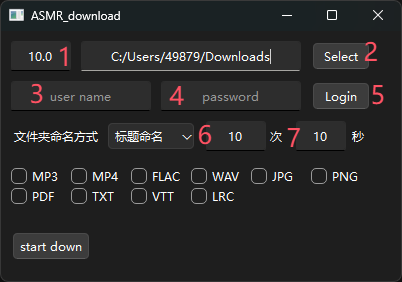
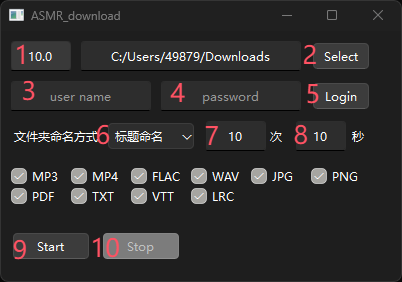
修复文件命名BUG

diff --git a/src/UI/index.py b/src/UI/index.py
@@ -2,7 +2,6 @@ import re
 
 from PyQt6.QtCore import QThread, pyqtSignal
 from PyQt6.QtWidgets import (
-    QApplication,
     QMainWindow,
     QPushButton,
     QLineEdit,
@@ -14,7 +13,6 @@ from PyQt6.QtWidgets import (
 )
 from PyQt6 import QtCore, QtWidgets
 from src.asmr_api.get_asmr_works import get_asmr_downlist_api
-from src.datebase_execution import SQLiteDB
 from src.read_conf import ReadConf
 from threading import Event
 
@@ -179,10 +177,10 @@ class INDEX(QMainWindow):
         self.down_stop_button.clicked.connect(self.down_stop)
         self.down_stop_button.setEnabled(False)
         # 打开下载页面按钮
-        self.down_stop_button = QPushButton("down page", self.centralwidget)
-        self.down_stop_button.setGeometry(QtCore.QRect(280, 200, 80, 30))
-        self.down_stop_button.clicked.connect(self.down_stop)
-        self.down_stop_button.setEnabled(False)
+        # self.down_stop_button = QPushButton("down page", self.centralwidget)
+        # self.down_stop_button.setGeometry(QtCore.QRect(280, 200, 80, 30))
+        # self.down_stop_button.clicked.connect(self.down_stop)
+        # self.down_stop_button.setEnabled(False)
 
 
         self.set_data()
@@ -247,7 +245,6 @@ class INDEX(QMainWindow):
         else:
             self.show_message_box('请输入小数', 'program')
 
-
     def save_max_retries(self):
         max_retries = self.max_retries.text()
         pattern = r'^\d+$'  # 修改正则表达式
@@ -256,9 +253,6 @@ class INDEX(QMainWindow):
                 self.conf.write_max_retries(max_retries)
         else:
             self.show_message_box('请输入整数', 'program')
-
-
-
 
     def save_timeout(self):
         timeout = self.timeout.text()
@@ -288,7 +282,6 @@ class INDEX(QMainWindow):
         folder_for_name = self.conf.read_name()
         if folder_for_name == "标题命名":
             self.folder_name_type_combo_box.setCurrentIndex(1)
-
 
     def save_download_path(self):
         download_path = QFileDialog.getExistingDirectory(self, "选择下载路径")

diff --git a/src/asmr_api/get_asmr_works.py b/src/asmr_api/get_asmr_works.py
@@ -29,14 +29,13 @@ def down_file(url, file_name, stop_event):
         if os.path.exists(file_name):
             downloaded_size = os.path.getsize(file_name)
             if downloaded_size == total_size:
-                print(f"文件已完整下载，跳过下载: {file_name}")
+                print(f"文件已下载，跳过下载: {file_name}")
                 return True
         else:
             downloaded_size = 0
 
         # 设置请求头，支持断点续传
         headers = {"Range": f"bytes={downloaded_size}-"}
-
         retries = 0
         while retries < max_retries:
             try:
@@ -181,12 +180,14 @@ def get_asmr_downlist_api(stop_event):
                 return
 
             file_title = item['title']
+            file_title = re.sub(r'[\/\\:\*\?\<\>\|]', '-', file_title)
             file_type = file_title[file_title.rfind('.') + 1:].upper()
             if not selected_formats.get(file_type, False):
-                print(f"跳过不支持的文件类型: {file_title}")
+                print(f"跳过文件: {file_title}")
                 continue
 
             print(f"正在下载作品 {work_title} ({idx}/{len(results)})")
+            print(f"-" * 80)
             file_name = os.path.join(item["download_path"], item["title"])
 
             if not os.path.exists(item["download_path"]):
@@ -195,6 +196,8 @@ def get_asmr_downlist_api(stop_event):
             success = down_file(item['media_download_url'], file_name, stop_event)
             if not success:
                 print(f"下载失败: {file_title}")
+
+            time.sleep(0.5)
 
         # 更新数据库状态
         if check_DB:

diff --git a/README.md b/README.md
@@ -11,15 +11,18 @@
 ![DLsite_WEB](imge/UI.png)
 
 ``` text
-1:  下载限速 单位MB/S 可使用小数或者整数
-2： 设置下载路径 点击Select后在选择弹框中选择
-3： ASMR.ONE 账号
-4： ASMR.ONE 密码
-5： 输入完成账号密码后 点击Login登录获取ASMR.ONE TOKEN
-6： 设置超时重下次数
-7： 设置超时时间 单位秒（s）
+1:   下载限速 单位MB/S 可使用小数或者整数
+2：  设置下载路径 点击Select后在选择弹框中选择
+3：  ASMR.ONE 账号
+4：  ASMR.ONE 密码
+5：  输入完成账号密码后 点击Login登录获取ASMR.ONE TOKEN
+6：  设置文件夹命名方式 可选RJ号命名和作品名命名
+7：  设置最大超时重试次数
+8：  设置下载超时时间 单位秒
+9：  开始下载
+10： 停止下载
 
-※ 注意事项 1、6、7设置修改即可保存
+※ 注意事项 1、6、7、8 设置修改即可保存
 ※ 文件格式选择 打勾则会下载 不打勾则会跳过下载 默认全选
 ※ VTT-视频文本轨道 LRC-基于纯文本的歌词专用格式
 ```
